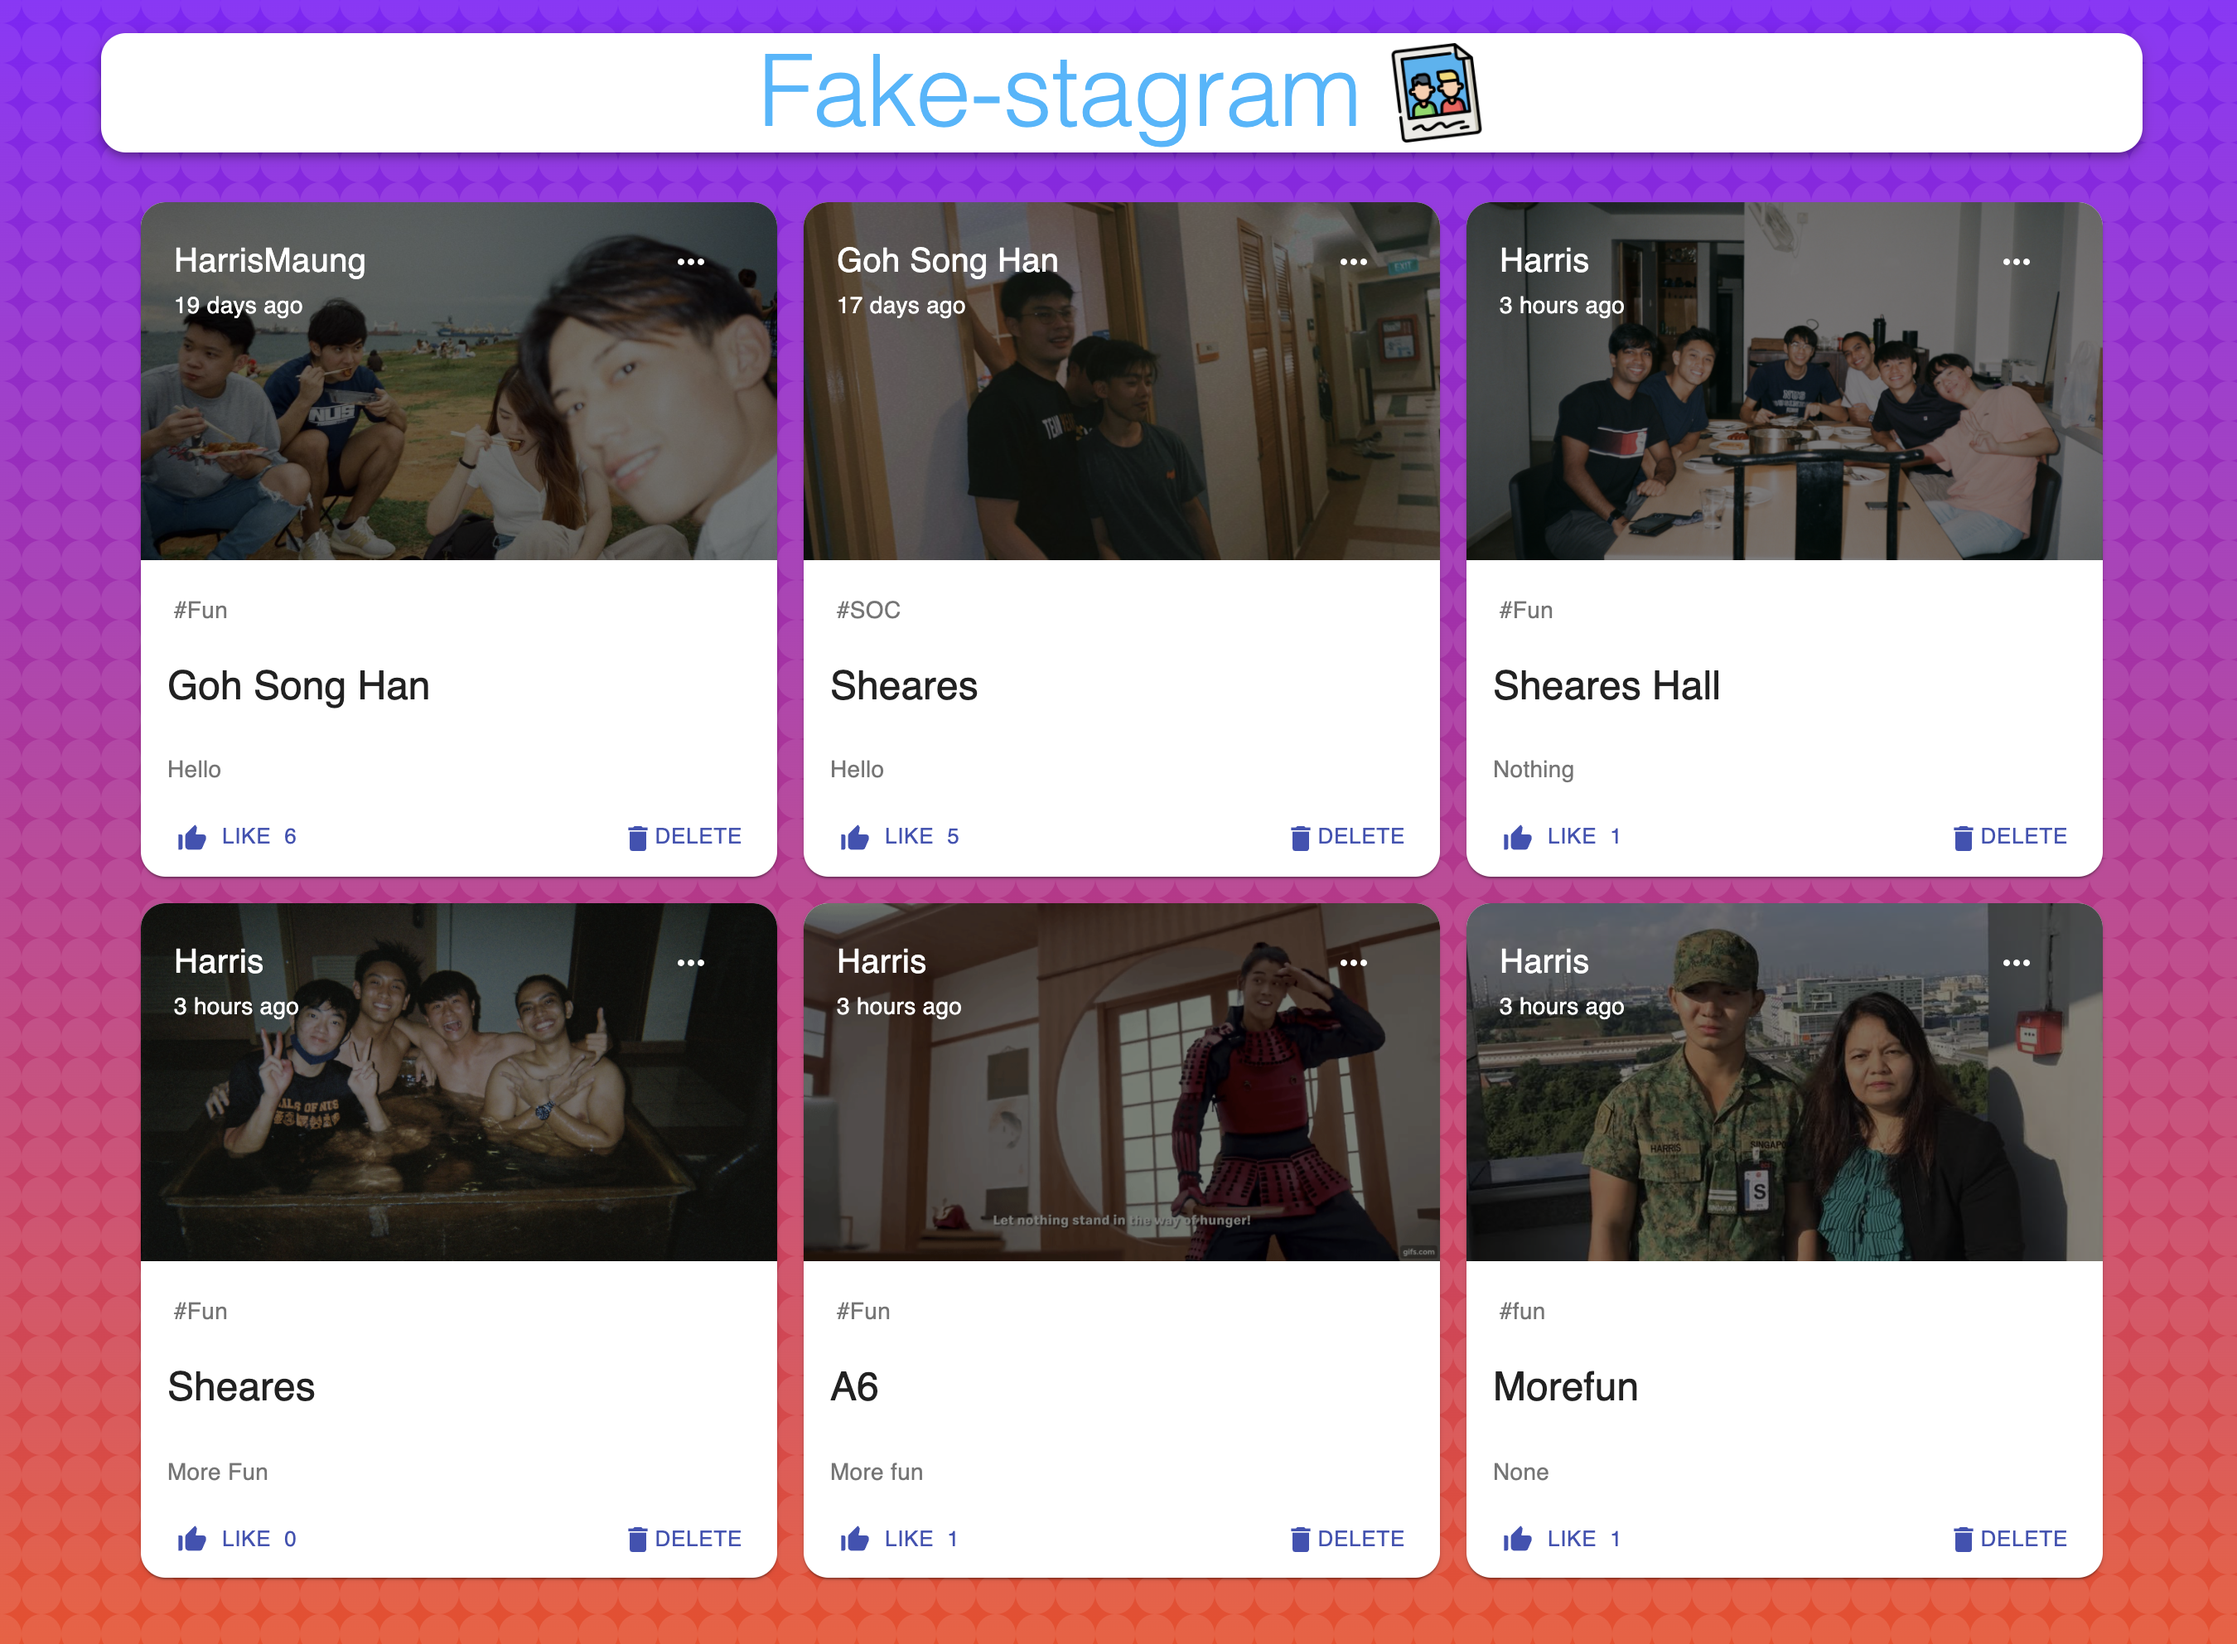
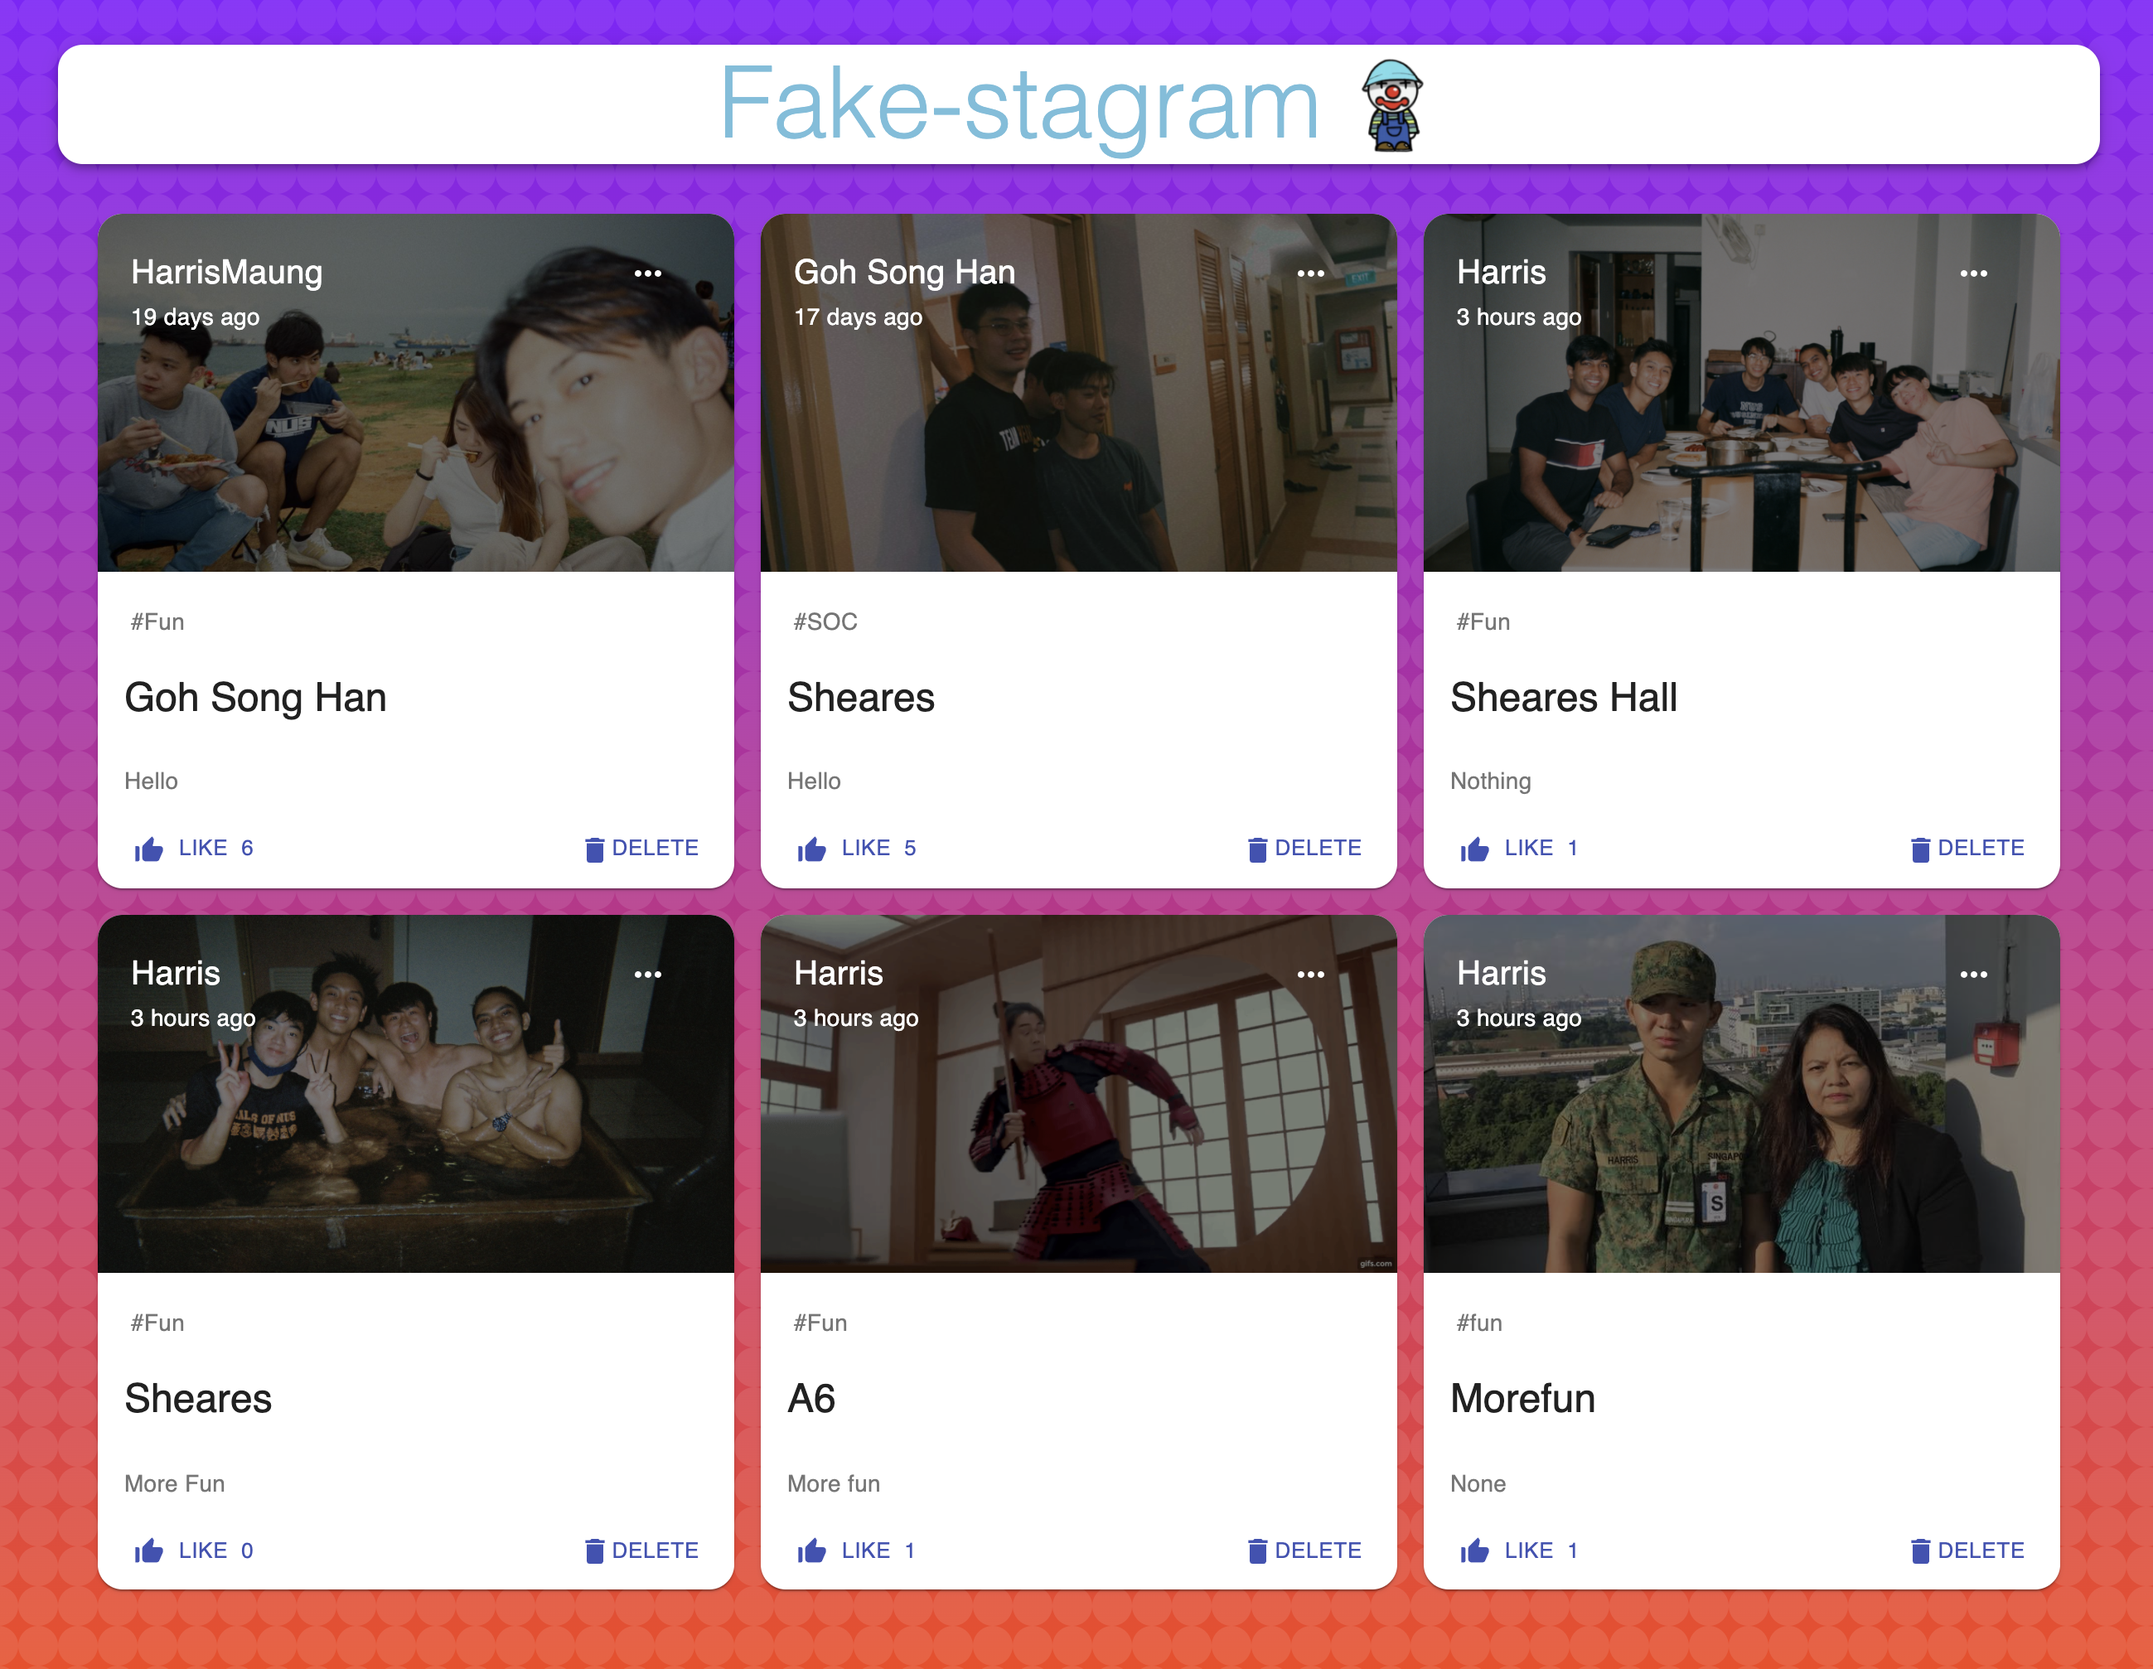
readme updates

Changed region(s): [[0.0, 0.0, 0.9977, 0.9688], [0.4365, 0.3125, 0.4677, 0.3438]]

diff --git a/client/src/styles.js b/client/src/styles.js
@@ -10,7 +10,7 @@ export default makeStyles((theme) => ({
     alignItems: 'center',
   },
   heading: {
-    color: 'rgba(0,183,255, 1)',
+    color: 'rgba(111,191,220, 1)',
   },
   image: {
     marginLeft: '15px',

diff --git a/README.md b/README.md
@@ -1,6 +1,11 @@
 # memories
 Fakestagarm project, designed to encapsulate memories 
 
-Author: sh and harris
+This is an extension of Javascript Mastery's Full Stack Mern Project.
+Author: Harris
 
+Landing Page
 ![Current Product](fake-stagram.png)
+
+Post Popup
+![Popup](fake-stagram-popup.png)
